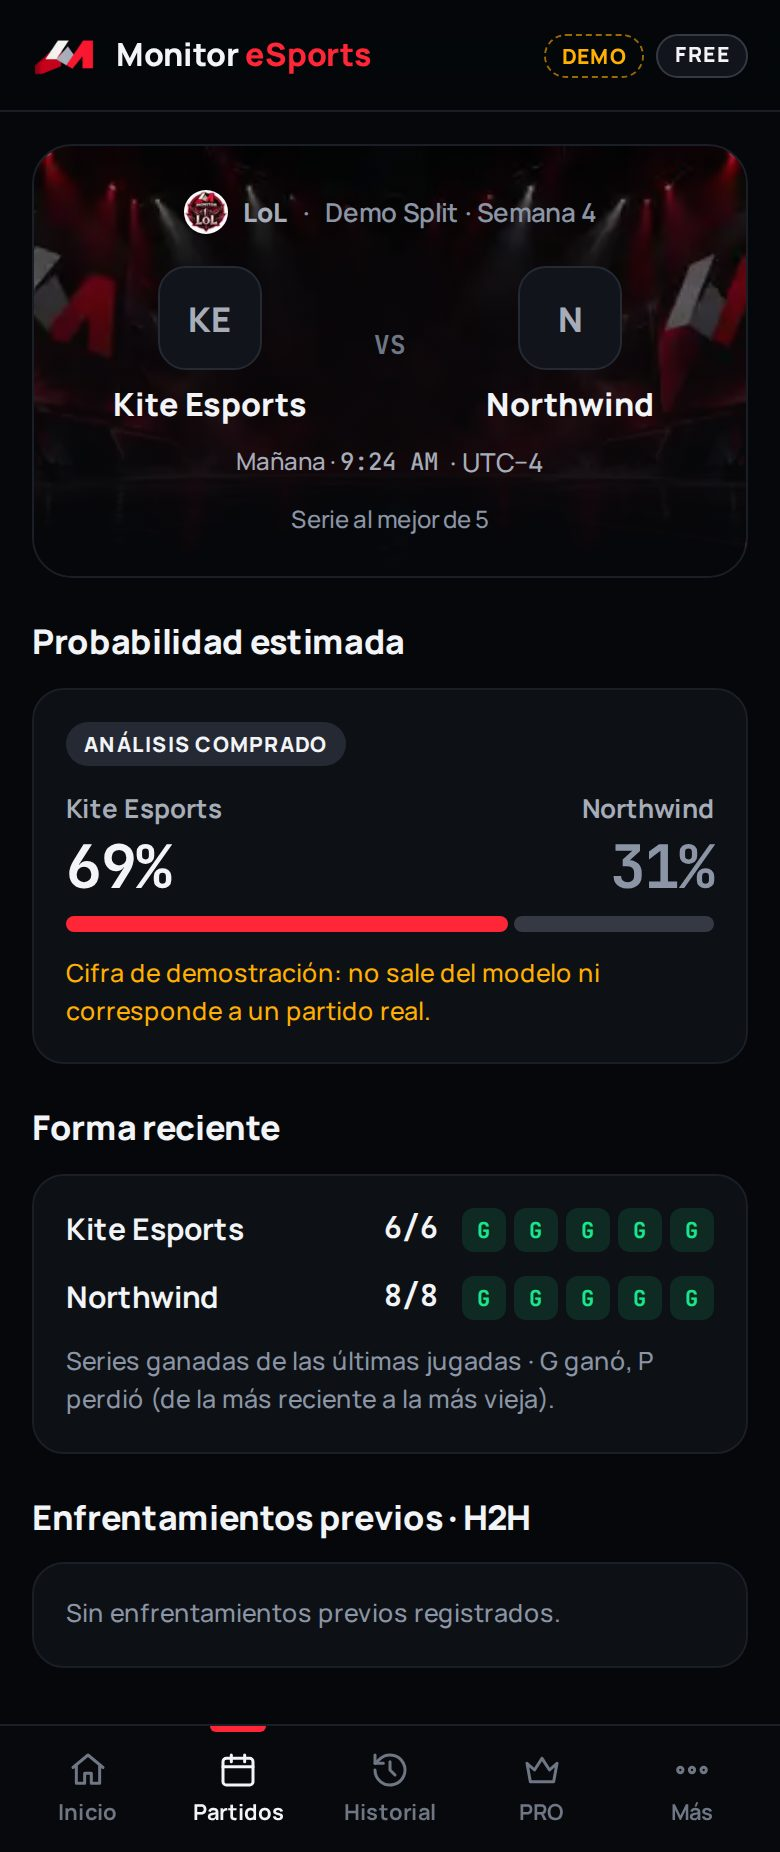
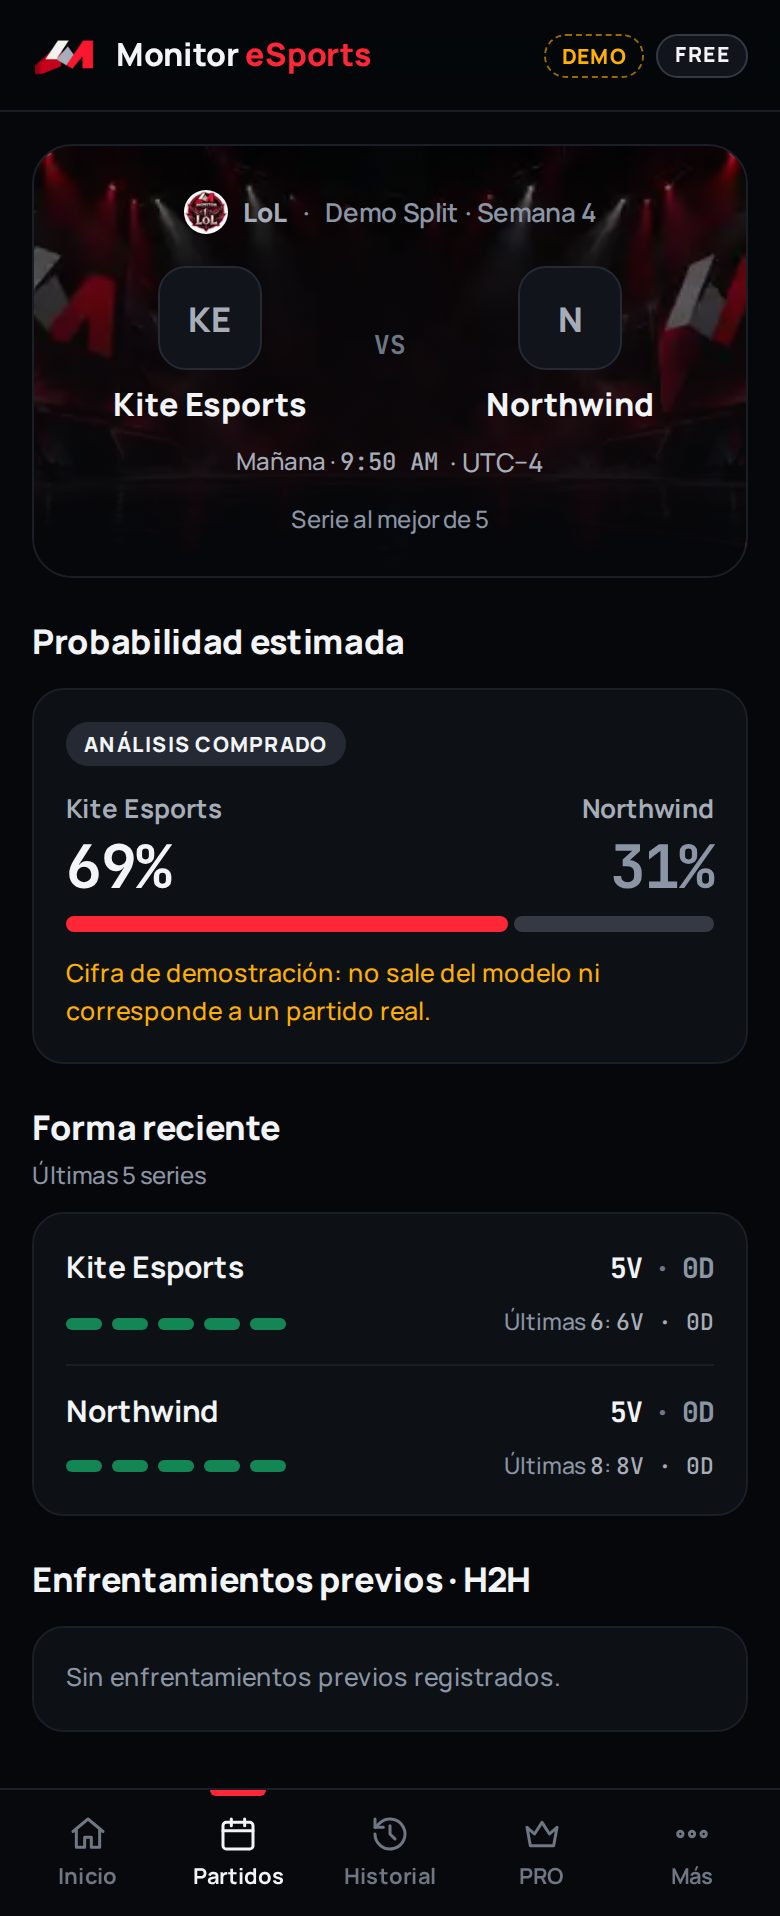
miniapp: rediseña Forma reciente en el detalle del partido
Sólo presentación: mismos datos, mismo acceso, misma lógica.

- Subtítulo "Últimas 5 series" y una fila por equipo.
- Resumen legible "5V · 0D" calculado desde las últimas 5.
- Cinco marcas compactas de la más antigua a la más reciente:
  victoria en verde apagado, derrota en gris.
- Si victorias/total cubre más series, va aparte como conteo de esa
  ventana ("Últimas 8: 8V · 0D"). No se muestra como racha: el dato no
  dice si fueron seguidas y el diseño no publica rachas.
- Fuera la fracción suelta (6/6) y la leyenda "G ganó, P perdió".

seccion() acepta una bajada opcional; sin ella el marcado no cambia, así
que el resto de las pantallas renderiza idéntico. 7 pruebas nuevas.
Capturas 05 y 06 actualizadas.

Claude-Session: https://claude.ai/code/session_01F84JRRwKJY1SnwiWWFVNd1

diff --git a/miniapp/src/estilos.css b/miniapp/src/estilos.css
@@ -327,16 +327,26 @@ h1, h2, h3, p { margin: 0; }
 .ficha__cuando { font-size: 13px; color: var(--tinta-media); display: flex; gap: 6px; align-items: center; }
 .ficha__formato { font-size: 12px; color: var(--tinta-suave); }
 
-.forma__fila { display: grid; grid-template-columns: 1fr auto auto; align-items: center; gap: 12px; }
-.forma__equipo { font-weight: 700; overflow: hidden; text-overflow: ellipsis; white-space: nowrap; }
-.forma__cifra { font-size: 15px; font-weight: 700; }
-.forma__ultimas { display: flex; gap: 4px; }
-.punto {
-  display: grid; place-items: center; width: 22px; height: 22px; border-radius: 6px;
-  font: 700 11px var(--mono);
+/* Forma reciente: resumen legible + cinco marcas discretas. Sin bloques de color. */
+.forma { gap: 0; padding-top: 4px; padding-bottom: 4px; }
+.forma__fila {
+  display: grid; grid-template-columns: minmax(0, 1fr) auto; align-items: center;
+  column-gap: 12px; row-gap: 8px; padding: 12px 0;
 }
-.punto--g { background: rgba(25, 230, 140, .12); color: var(--positivo); }
-.punto--p { background: var(--interior); color: var(--tinta-suave); border: 1px solid var(--borde-medio); }
+.forma__fila + .forma__fila { border-top: 1px solid var(--borde); }
+.forma__equipo { font-weight: 700; overflow: hidden; text-overflow: ellipsis; white-space: nowrap; }
+.forma__resumen { justify-self: end; font-size: 14px; font-weight: 700; white-space: nowrap; }
+.forma__resumen--vacio { font: 600 12.5px var(--sans); color: var(--tinta-suave); }
+.forma__v { color: var(--tinta); }
+.forma__d { color: var(--tinta-suave); }
+.forma__sep { color: var(--tinta-apagada); margin: 0 6px; }
+.forma__serie { display: flex; gap: 5px; align-items: center; }
+.forma__marca { width: 18px; height: 6px; border-radius: 3px; flex: none; }
+.forma__marca--v { background: color-mix(in srgb, var(--positivo) 55%, var(--tarjeta)); }
+.forma__marca--d { background: var(--borde-fuerte); }
+.forma__extra { justify-self: end; font-size: 11.5px; color: var(--tinta-suave); white-space: nowrap; }
+.forma__extra .mono { color: var(--tinta-media); }
+.seccion__bajada { margin-top: 2px; font-size: 12px; color: var(--tinta-suave); }
 .h2h { display: grid; grid-template-columns: 1fr auto 1fr; gap: 12px; align-items: center; font-weight: 700; }
 .h2h span:last-child { text-align: right; }
 .h2h .mono { font-size: 22px; }
